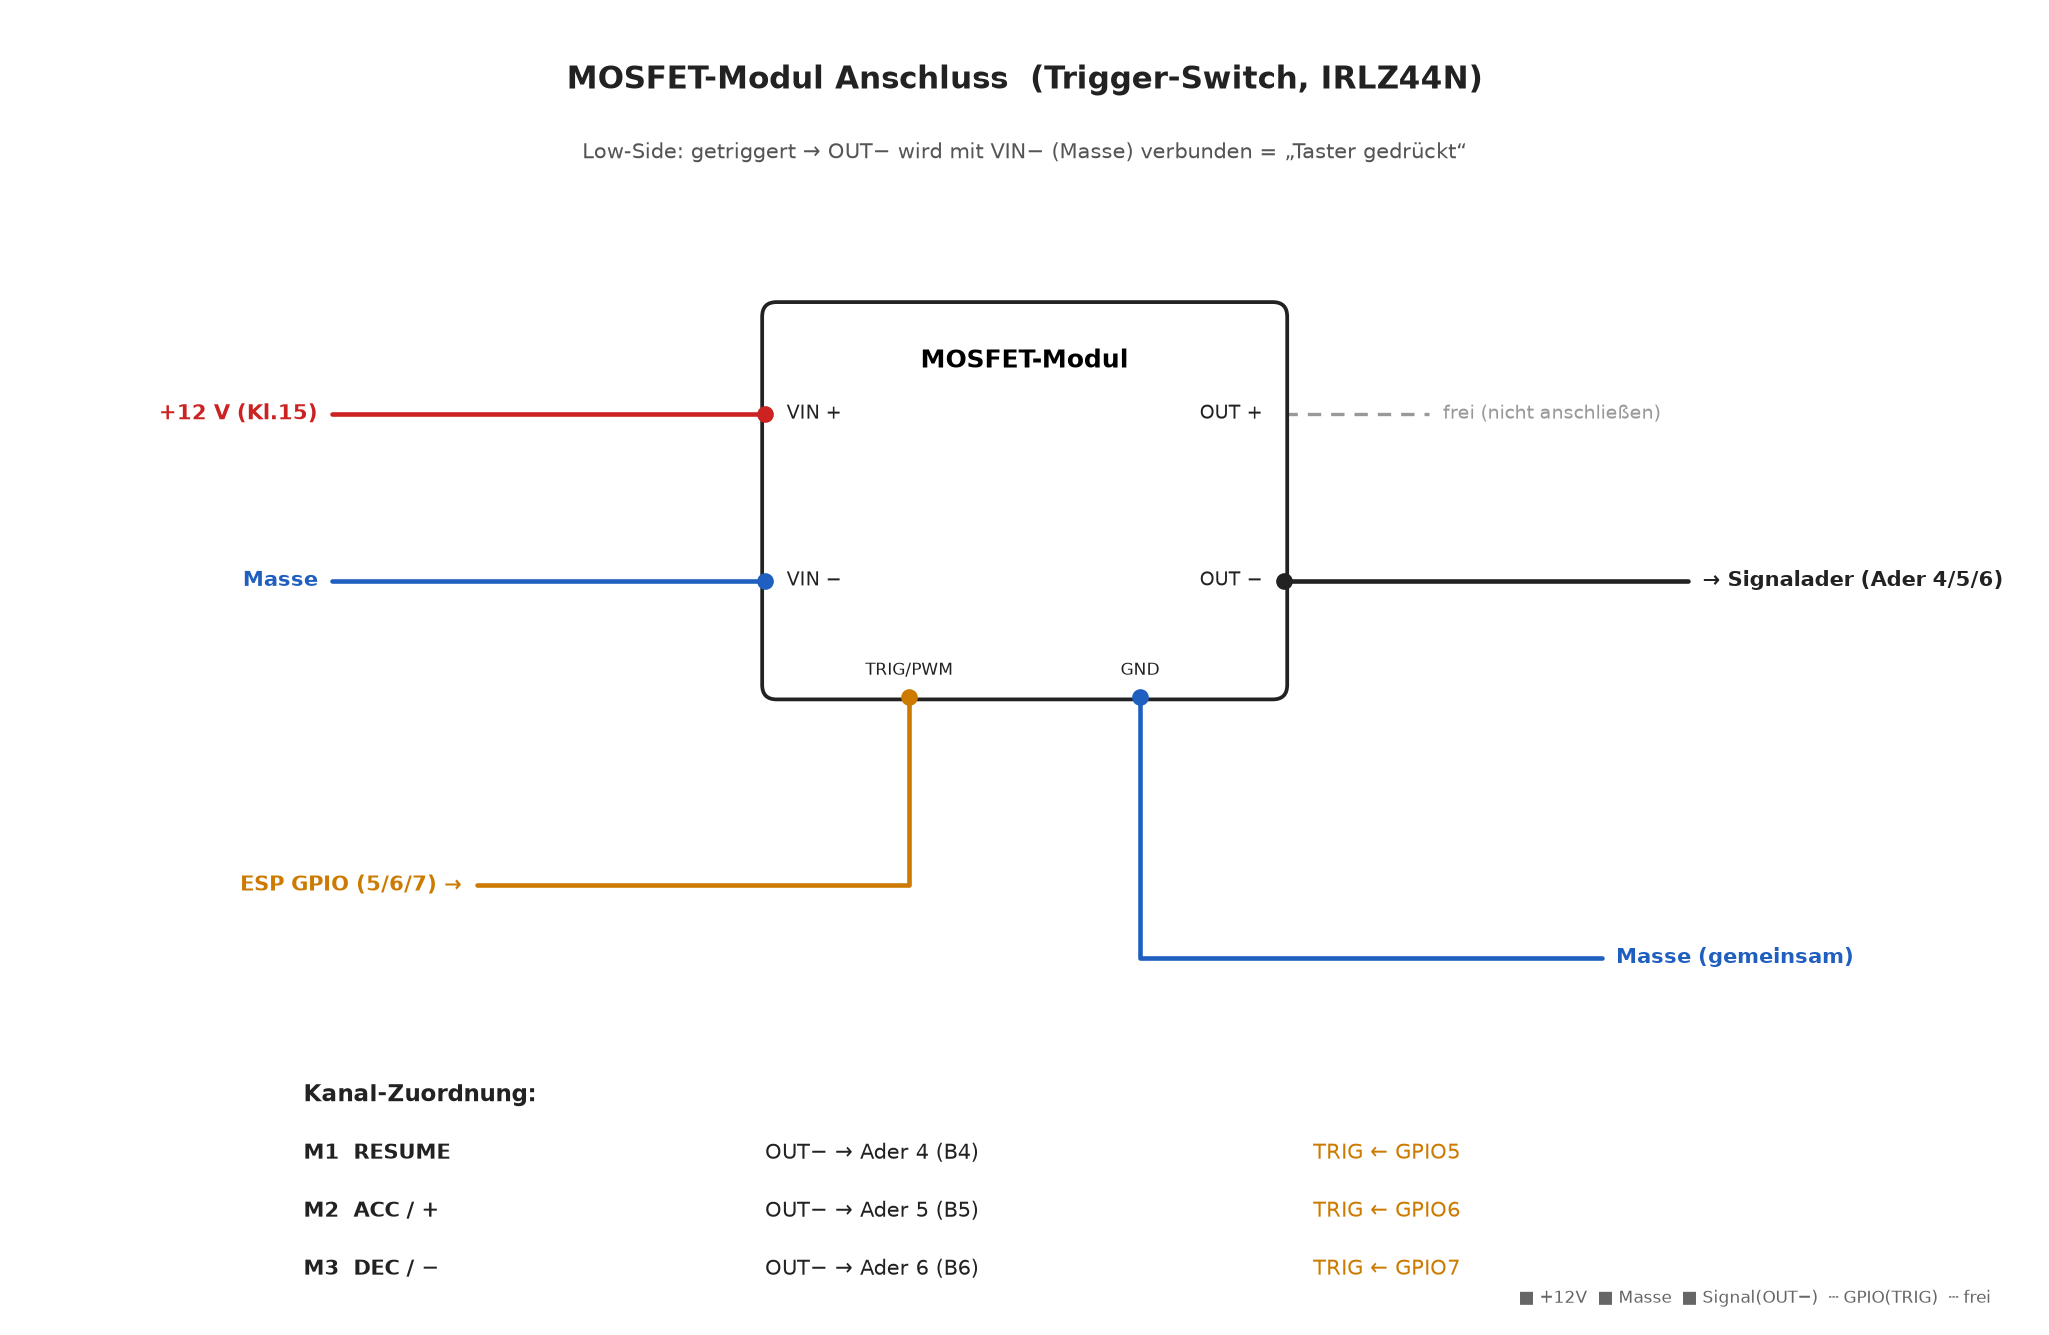
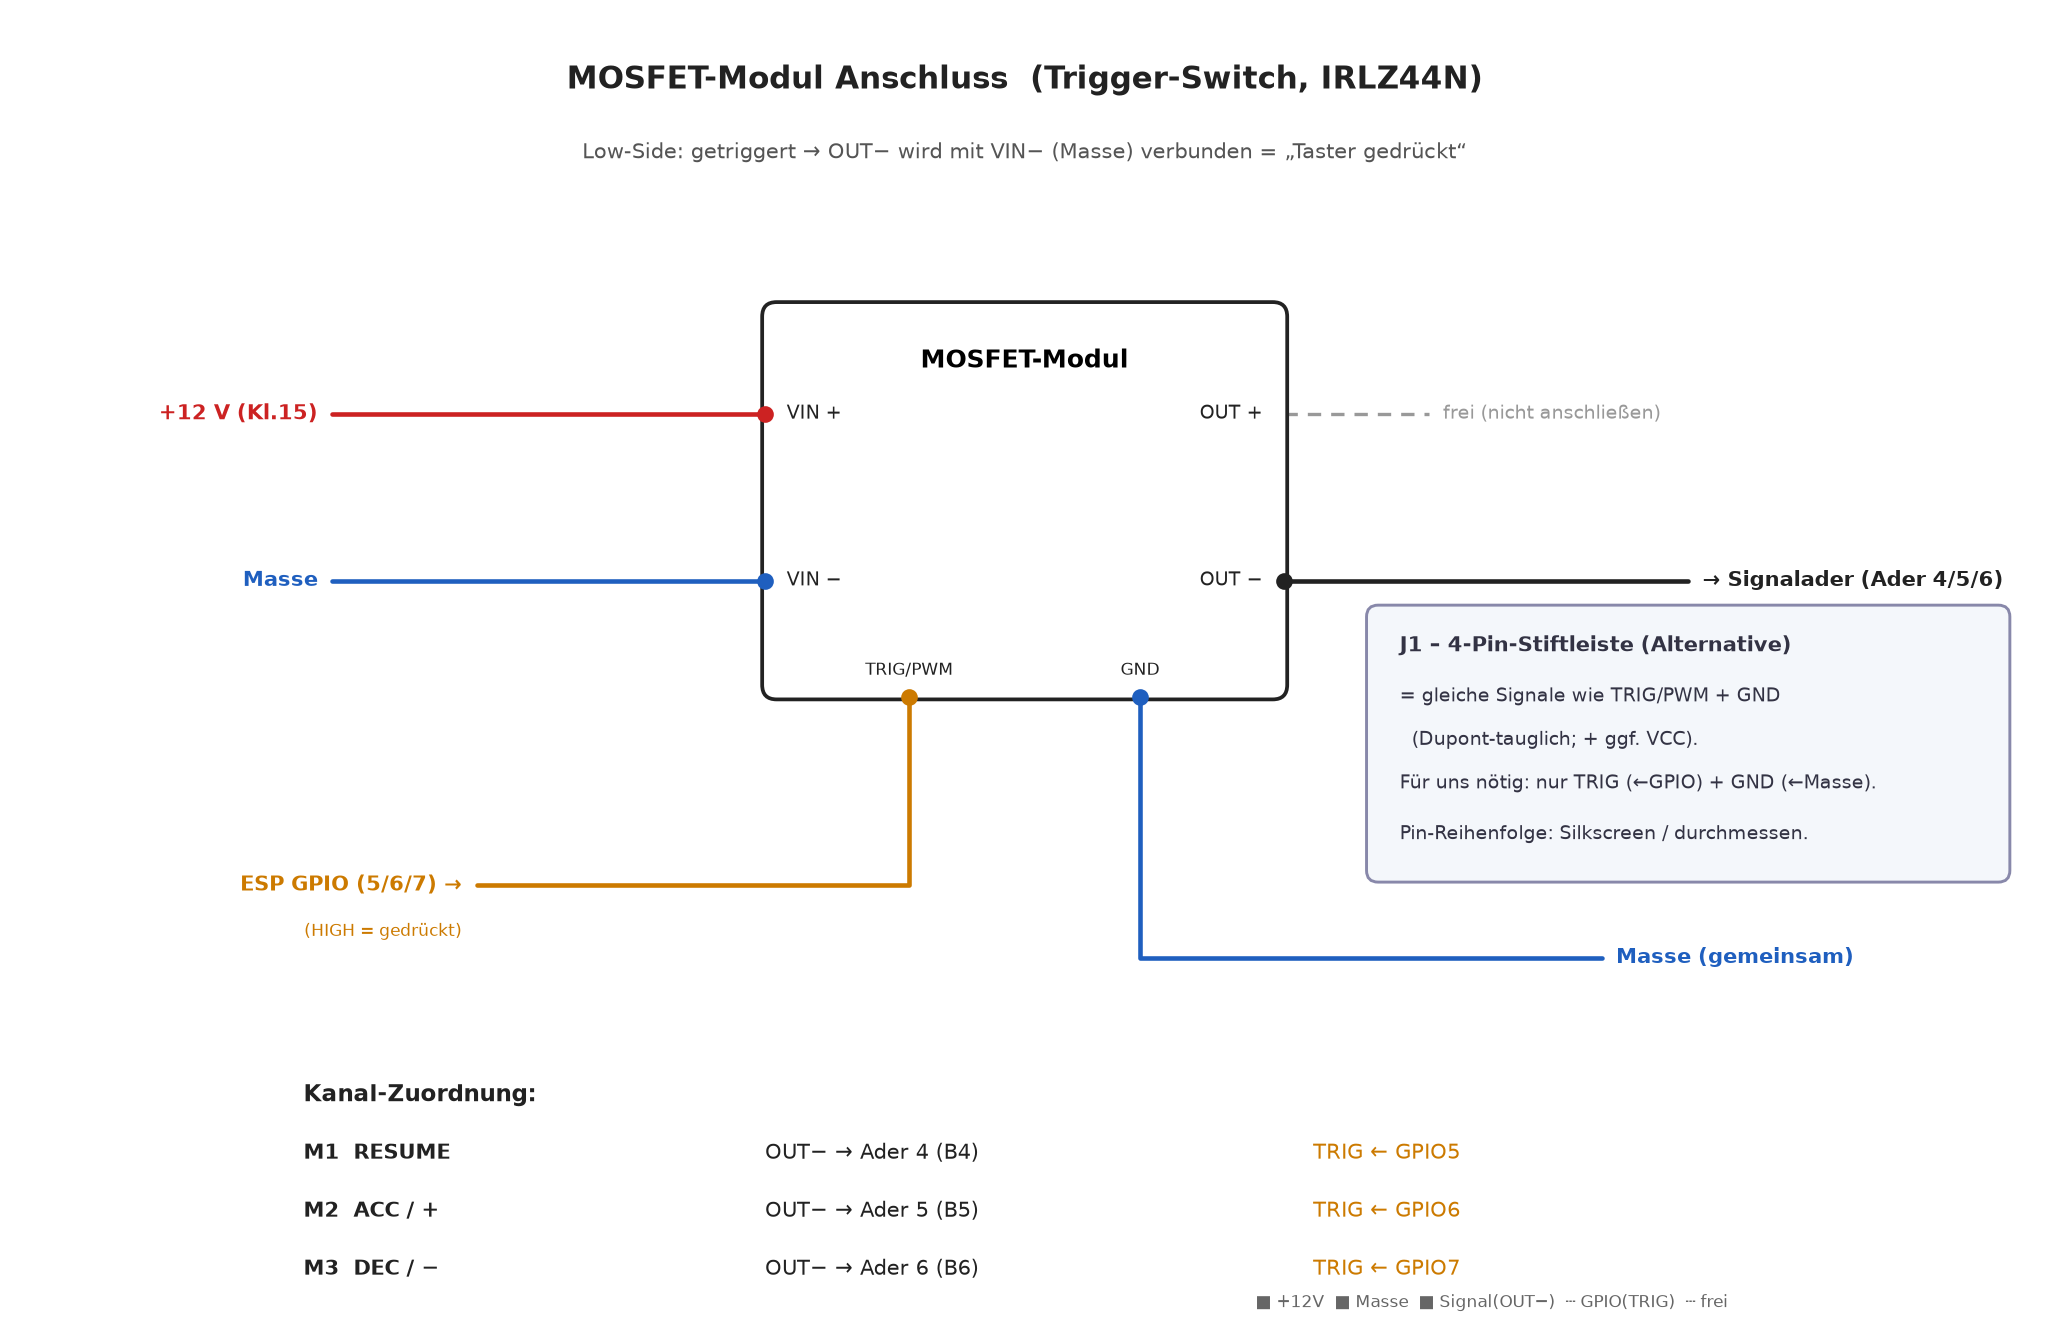
docs: MOSFET-Anschlussbild um TRIG/PWM-Erklaerung + J1-Stiftleiste ergaenzt
Claude-Session: https://claude.ai/code/session_019hhT4rrVsqyD9aWQ2wqNbN

diff --git a/docs/anschluss-mosfet-diagram.py b/docs/anschluss-mosfet-diagram.py
@@ -35,7 +35,7 @@ Wr([(mx+mw,yT),(mx+mw+1.0,yT)],GRY,1.6,ls=(0,(4,3))); L(mx+mw+1.1,yT,"frei (nich
 # OUT- -> Signalader
 Wr([(mx+mw,yB),(11.6,yB)],BLK); D(mx+mw,yB,BLK); L(11.7,yB,"→ Signalader (Ader 4/5/6)",c=BLK,fs=10,ha="left",w="bold")
 # TRIG -> GPIO
-Wr([(mx+1.0,my),(mx+1.0,3.0),(3.2,3.0)],ORG); D(mx+1.0,my,ORG); L(3.1,3.0,"ESP GPIO (5/6/7) →",c=ORG,fs=10,ha="right",w="bold")
+Wr([(mx+1.0,my),(mx+1.0,3.0),(3.2,3.0)],ORG); D(mx+1.0,my,ORG); L(3.1,3.0,"ESP GPIO (5/6/7) →",c=ORG,fs=10,ha="right",w="bold"); L(3.1,2.68,"(HIGH = gedrückt)",c=ORG,fs=8,ha="right")
 # GND -> Masse
 Wr([(mx+mw-1.0,my),(mx+mw-1.0,2.5),(11.0,2.5)],BLU); D(mx+mw-1.0,my,BLU); L(11.1,2.5,"Masse (gemeinsam)",c=BLU,fs=10,ha="left",w="bold")
 
@@ -48,5 +48,14 @@ yy=1.15
 for a,b,c in rows:
     L(2.0,yy,a,fs=10,ha="left",w="bold"); L(5.2,yy,b,fs=10,ha="left"); L(9.0,yy,c,c=ORG,fs=10,ha="left"); yy-=0.4
 
-L(13.7,0.15,"■ +12V  ■ Masse  ■ Signal(OUT−)  ┄ GPIO(TRIG)  ┄ frei",fs=8,ha="right",c="#666")
+
+# J1 note box
+from matplotlib.patches import FancyBboxPatch as FBB
+ax.add_patch(FBB((9.4,3.05),4.4,1.85,boxstyle="round,pad=0.03,rounding_size=0.08",fc="#f4f7fb",ec="#88a",lw=1.4,zorder=2))
+L(9.6,4.65,"J1 – 4-Pin-Stiftleiste (Alternative)",c="#334",fs=10,ha="left",w="bold")
+L(9.6,4.3,"= gleiche Signale wie TRIG/PWM + GND",c="#334",fs=9,ha="left")
+L(9.6,4.0,"  (Dupont-tauglich; + ggf. VCC).",c="#334",fs=9,ha="left")
+L(9.6,3.7,"Für uns nötig: nur TRIG (←GPIO) + GND (←Masse).",c="#334",fs=9,ha="left")
+L(9.6,3.35,"Pin-Reihenfolge: Silkscreen / durchmessen.",c="#334",fs=9,ha="left")
+L(8.6,0.12,"■ +12V  ■ Masse  ■ Signal(OUT−)  ┄ GPIO(TRIG)  ┄ frei",fs=8,ha="left",c="#666")
 plt.tight_layout(); plt.savefig("anschluss-mosfet.png",dpi=150,bbox_inches="tight",facecolor="white"); print("ok")
